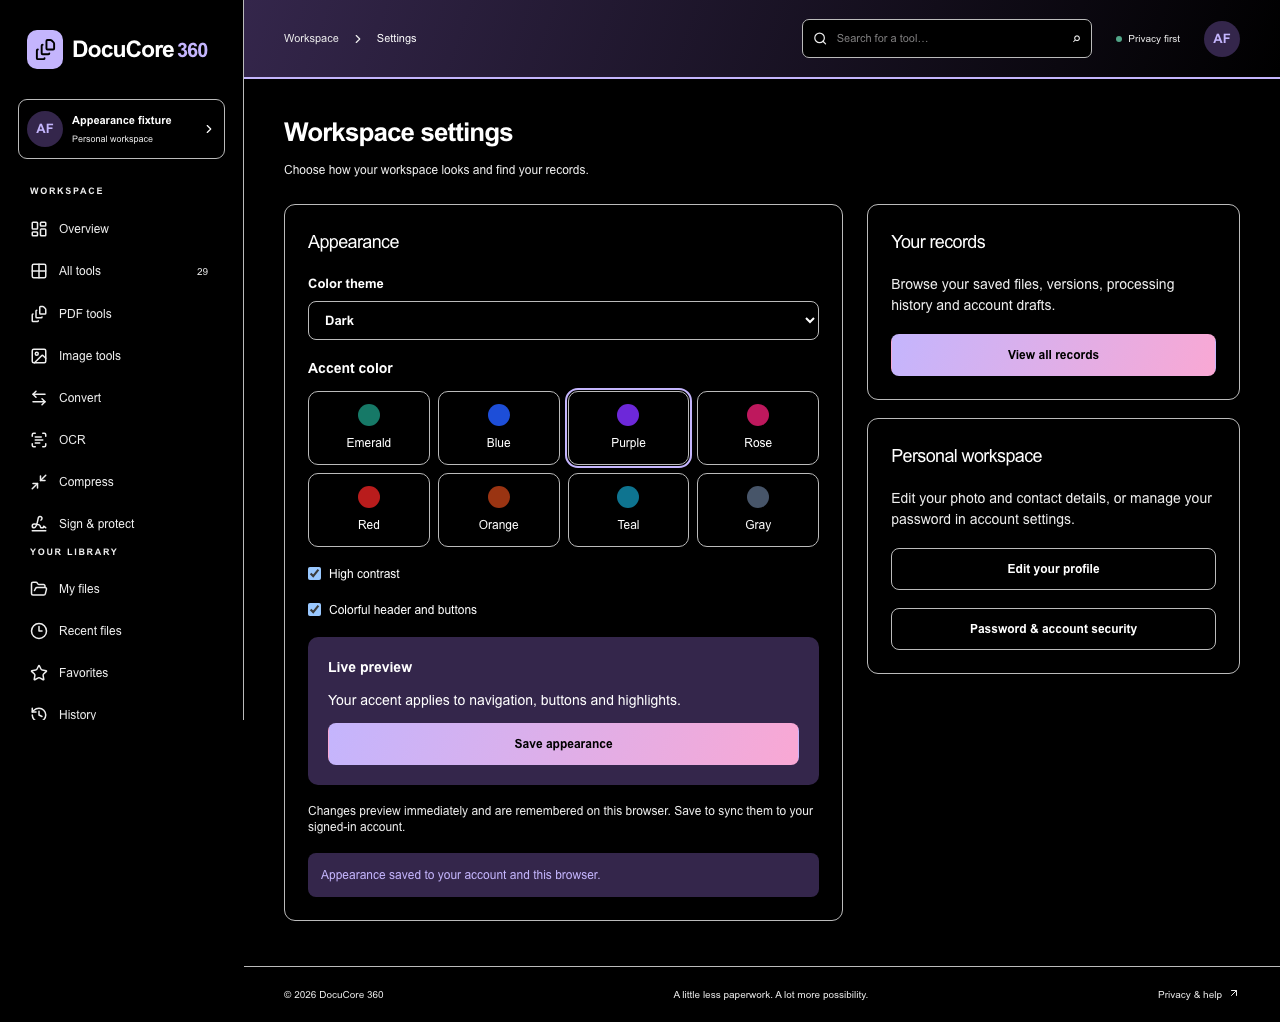
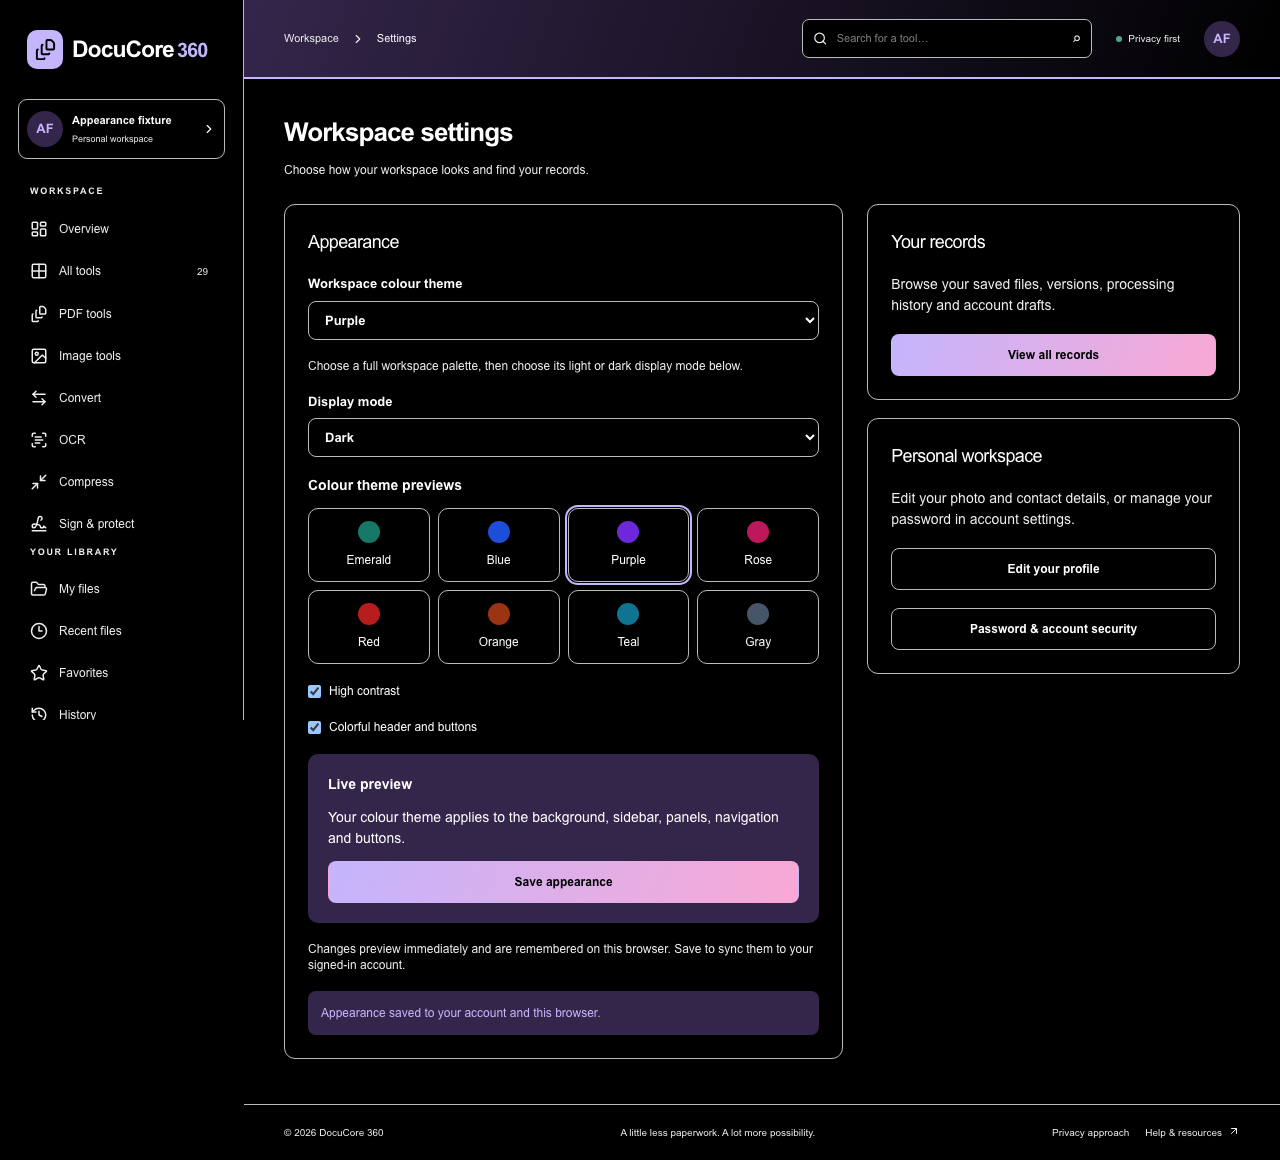
Separate privacy and help pages and expose full workspace themes

diff --git a/src/app/help/page.tsx b/src/app/help/page.tsx
@@ -1,12 +1,12 @@
 import Link from "next/link";
-export const metadata = { title: "Help & privacy" };
+export const metadata = { title: "Help & resources" };
 export default function Page() {
   return (
     <>
       <div className="page-intro">
         <div>
-          <h1>A little clarity goes a long way.</h1>
-          <p>How DocuCore works, and how we handle your documents.</p>
+          <h1>Help & resources</h1>
+          <p>Guides, supported formats and answers for your document workspace.</p>
         </div>
       </div>
       <div className="panel prose max-w-3xl">
@@ -16,20 +16,6 @@ export default function Page() {
           duplicate or delete pages, insert blank pages, convert images to PDF, and export PDF pages
           as JPG, PNG or WebP. OCR, image editing, basic Office conversion, PDF forms, redaction and
           AES-256 protection also run on your device.
-        </p>
-        <h2>Your files. Your choice.</h2>
-        <p>
-          Guest tool inputs and results stay in browser memory unless you explicitly save a local
-          editor draft. Local drafts persist in this browser profile until deleted. Signing in does
-          not automatically upload a document. Only choosing “Save to My Files” sends the selected
-          document to this application’s server, where it stays until you delete it or delete your
-          account.
-        </p>
-        <p>
-          Saved files live outside the public web directory and require your session to download.
-          Temporary server assets, if created by future tools, carry an expiration time and are
-          removed by the scheduled cleanup command. Deployment owners must configure that schedule.
-          We do not claim that every future conversion will happen locally.
         </p>
         <h2>Supported formats and limits</h2>
         <p>
@@ -65,9 +51,9 @@ export default function Page() {
           <details>
             <summary>Can I edit existing text or run OCR?</summary>
             <p>
-              The PDF editor supports visual text replacement overlays. English OCR creates editable
-              text and searchable PDFs. The separate Redact PDF tool rebuilds page images and
-              discards underlying text. Exact native PDF text editing is not supported.
+              The PDF editor supports visual text replacement overlays. Multilingual OCR creates
+              editable text and searchable PDFs. The separate Redact PDF tool rebuilds page images
+              and discards underlying text. Exact native PDF text editing is not supported.
             </p>
           </details>
           <details>
@@ -87,6 +73,27 @@ export default function Page() {
             </p>
           </details>
         </div>
+        <h2>Personalize your workspace</h2>
+        <p>
+          Open{" "}
+          <Link className="underline" href="/settings">
+            Workspace settings
+          </Link>{" "}
+          to choose from eight workspace colour themes, then pick light, dark or system display
+          mode. High contrast and colourful headers are optional. Save appearance to sync your
+          choice to your account.
+        </p>
+        <p>
+          For password changes, open{" "}
+          <Link className="underline" href="/profile/settings">
+            Account security
+          </Link>
+          . For storage and data handling, read{" "}
+          <Link className="underline" href="/privacy">
+            Our privacy approach
+          </Link>
+          .
+        </p>
         <h2>Need a starting point?</h2>
         <p>
           <Link className="text-[var(--primary)] underline" href="/tools">

diff --git a/src/app/privacy/page.tsx b/src/app/privacy/page.tsx
@@ -1,0 +1,68 @@
+import Link from "next/link";
+export const metadata = { title: "Our privacy approach" };
+export default function Page() {
+  return (
+    <>
+      <div className="page-intro">
+        <div>
+          <h1>Our privacy approach</h1>
+          <p>
+            Your files. Your control. Understand what stays on your device and what you choose to
+            save.
+          </p>
+        </div>
+      </div>
+      <div className="panel prose max-w-3xl">
+        <h2>Processing on your device</h2>
+        <p>
+          Current PDF, image, OCR and conversion tools process documents in your browser. Signing in
+          does not automatically upload their inputs or results. Downloads create a separate output;
+          your original file stays unchanged.
+        </p>
+        <h2>Local drafts and preferences</h2>
+        <p>
+          Choosing a local editor draft saves it in this browser profile until you delete it or
+          clear browser storage. Appearance preferences are also remembered locally. Local drafts
+          are not an offsite backup and are not automatically available on other devices.
+        </p>
+        <h2>What is stored on the server?</h2>
+        <p>
+          Save to My Files uploads the selected document. Saving an account draft uploads its
+          document and editable state. Profile photo upload stores a private, resized image. Account
+          details, saved appearance preferences, favourites and processing-history metadata are also
+          stored by this deployment. Processing history can include file names and result sizes; it
+          is separate from saving a document.
+        </p>
+        <h2>Private access and account email</h2>
+        <p>
+          Saved files, versions, drafts and profile photos require an authorized session. Files are
+          stored outside the public web directory. Password-reset and verification messages use the
+          email service configured by the deployment owner.
+        </p>
+        <h2>Removal and retention</h2>
+        <p>
+          You can delete saved files and drafts, remove your profile photo, and delete your account
+          from Account security. Account deletion removes its saved assets and sessions. Deployment
+          backups and operational logs are managed separately by the deployment owner; backup
+          retention depends on that deployment. Temporary server assets use the configured cleanup
+          schedule.
+        </p>
+        <h2>Your next step</h2>
+        <p>
+          <Link className="underline" href="/records">
+            View your records
+          </Link>{" "}
+          or{" "}
+          <Link className="underline" href="/profile/settings">
+            manage account security
+          </Link>
+          . For tool instructions and troubleshooting, visit{" "}
+          <Link className="underline" href="/help">
+            Help &amp; resources
+          </Link>
+          .
+        </p>
+      </div>
+    </>
+  );
+}

diff --git a/src/components/settings.tsx b/src/components/settings.tsx
@@ -4,7 +4,7 @@ import Link from "next/link";
 import { useQuery, useQueryClient } from "@tanstack/react-query";
 import { api, type SessionUser } from "@/lib/api";
 import { usePreferences } from "@/stores/preferences";
-import { accents, accentLabels, type Appearance } from "@/config/appearance";
+import { accents, accentLabels, type Accent, type Appearance } from "@/config/appearance";
 import { Button } from "@/components/ui/button";
 export function Settings() {
   const preferences = usePreferences();
@@ -52,8 +52,25 @@ export function Settings() {
         <section className="panel form-stack">
           <h2 className="text-lg">Appearance</h2>
           <label className="field">
-            Color theme
+            Workspace colour theme
             <select
+              value={preferences.accent}
+              onChange={(e) => preferences.setAppearance({ accent: e.target.value as Accent })}
+            >
+              {accents.map((accent) => (
+                <option key={accent} value={accent}>
+                  {accentLabels[accent]}
+                </option>
+              ))}
+            </select>
+          </label>
+          <p className="muted text-xs">
+            Choose a full workspace palette, then choose its light or dark display mode below.
+          </p>
+          <label className="field">
+            Display mode
+            <select
+              aria-label="Display mode"
               value={preferences.theme}
               onChange={(e) =>
                 preferences.setAppearance({ theme: e.target.value as Appearance["theme"] })
@@ -65,7 +82,7 @@ export function Settings() {
             </select>
           </label>
           <fieldset className="appearance-colors">
-            <legend>Accent color</legend>
+            <legend>Colour theme previews</legend>
             <div className="color-options">
               {accents.map((accent) => (
                 <button
@@ -100,7 +117,9 @@ export function Settings() {
           </label>
           <div className="appearance-preview">
             <strong>Live preview</strong>
-            <p>Your accent applies to navigation, buttons and highlights.</p>
+            <p>
+              Your colour theme applies to the background, sidebar, panels, navigation and buttons.
+            </p>
             <Button type="button" disabled={busy} onClick={() => void save()}>
               Save appearance
             </Button>

diff --git a/tests/e2e/specs/workspace-ui.spec.ts b/tests/e2e/specs/workspace-ui.spec.ts
@@ -119,13 +119,13 @@ test("all eight accents preview, save to the account and expose only owned recor
   });
   try {
     await page.goto("/settings");
-    await page.getByRole("combobox", { name: "Color theme", exact: true }).selectOption("light");
+    await page.getByRole("combobox", { name: "Display mode", exact: true }).selectOption("light");
     for (const name of ["Emerald", "Blue", "Purple", "Rose", "Red", "Orange", "Teal", "Gray"]) {
       await page.getByRole("button", { name: `${name} accent`, exact: true }).click();
       await expect(page.locator("html")).toHaveAttribute("data-accent", name.toLowerCase());
     }
     await page.getByRole("button", { name: "Purple accent", exact: true }).click();
-    await page.getByRole("combobox", { name: "Color theme", exact: true }).selectOption("dark");
+    await page.getByRole("combobox", { name: "Display mode", exact: true }).selectOption("dark");
     await page.getByLabel("High contrast", { exact: true }).check();
     await page.getByLabel("Colorful header and buttons", { exact: true }).check();
     await page.getByRole("button", { name: "Save appearance", exact: true }).click();

diff --git a/src/components/shell.tsx b/src/components/shell.tsx
@@ -189,7 +189,7 @@ export function Shell({ children }: { children: React.ReactNode }) {
             <ShieldCheck size={22} />
             <strong>Your files. Your control.</strong>
             <p>Core PDF tools run right in your browser.</p>
-            <Link href="/help">
+            <Link href="/privacy">
               Our privacy approach <ArrowUpRight size={14} />
             </Link>
           </div>
@@ -265,9 +265,12 @@ export function Shell({ children }: { children: React.ReactNode }) {
         <footer className="footer">
           <span>© {new Date().getFullYear()} DocuCore 360</span>
           <span>A little less paperwork. A lot more possibility.</span>
-          <Link href="/help">
-            Privacy & help <ArrowUpRight size={12} />
-          </Link>
+          <div className="flex gap-4">
+            <Link href="/privacy">Privacy approach</Link>
+            <Link href="/help">
+              Help &amp; resources <ArrowUpRight size={12} />
+            </Link>
+          </div>
         </footer>
       </div>
     </div>

diff --git a/src/app/globals.css b/src/app/globals.css
@@ -1973,3 +1973,17 @@ small {
 :root[data-accent="gray"]:not(.dark):not(.high-contrast) {
   --bg: #f1f3f5;
 }
+
+/* Full workspace palettes, independent of display mode and contrast. */
+:root[data-accent]:not(.dark):not(.high-contrast) {
+  --bg: color-mix(in srgb, var(--primary) 7%, white);
+  --surface: color-mix(in srgb, var(--primary) 2%, white);
+  --sidebar: color-mix(in srgb, var(--primary) 11%, white);
+  --line: color-mix(in srgb, var(--primary) 20%, white);
+}
+:root.dark[data-accent]:not(.high-contrast) {
+  --bg: color-mix(in srgb, var(--primary) 10%, #080b10);
+  --surface: color-mix(in srgb, var(--primary) 16%, #080b10);
+  --sidebar: color-mix(in srgb, var(--primary) 20%, #080b10);
+  --line: color-mix(in srgb, var(--primary) 30%, #080b10);
+}

diff --git a/README.md b/README.md
@@ -48,13 +48,15 @@ Open the account card at the top of the sidebar to view your name and photo, edi
 
 Your private profile includes your name, email, contact number, job title, location and bio. Use the pencil and delete icons directly on your photo to replace or remove a JPG, PNG or WebP avatar; the app creates a square avatar and updates the sidebar and header. Email changes require your current password, revoke existing sessions and clear verification until the new address is verified.
 
-Workspace **Settings** (`/settings`) offers light, dark and system modes plus eight colour palettes: Emerald, Blue, Purple, Rose, Red, Orange, Teal and Gray. High contrast and colourful header/buttons are independent options. Changes preview immediately and persist in this browser; **Save appearance** also saves them to your signed-in account for another browser or device.
+Workspace **Settings** (`/settings`) has a **Workspace colour theme** dropdown and a separate **Display mode** selector for light, dark and system modes. Eight full workspace palettes colour the background, sidebar, panels and controls: Emerald, Blue, Purple, Rose, Red, Orange, Teal and Gray. High contrast and colourful header/buttons are independent options. Changes preview immediately and persist in this browser; **Save appearance** also saves them to your signed-in account for another browser or device.
 
 Personal **Account settings** (`/profile/settings`) is available from the sidebar profile menu and profile page. Change your password there; a successful change ends existing sessions and asks you to sign in again. Every password input—including login, signup, reset, account confirmation and protected PDF tools—has an accessible show/hide eye button.
 
 Use **Settings → View all records** (`/records`) to browse your own saved files and versions, processing history and account drafts. The existing library pagination and history limits still apply: files load 50 per page, history shows the latest 200 records, and an account can retain up to 20 editable drafts.
 
 **All tools** in the sidebar displays all 29 tools. PDF tools, Image tools, Convert, OCR and Sign & protect display their matching tools; the selected category stays in sync with the URL and browser back/forward navigation.
+
+**Our privacy approach** (`/privacy`) explains browser processing, explicit uploads, account data and retention. **Help & resources** (`/help`) is a separate page for tool guidance, limits and troubleshooting.
 
 Core document tools can be used without an account; saved files, account drafts and profiles require sign-in.
 

diff --git a/docs/IMPLEMENTATION_STATUS.md b/docs/IMPLEMENTATION_STATUS.md
@@ -50,3 +50,9 @@ The current app was rebuilt and restarted. ESLint, TypeScript, all 55 unit/datab
 Added a shared accessible show/hide control to every password field, photo edit/delete icons directly on the avatar, separate personal account security at `/profile/settings`, and workspace appearance plus View all records at `/settings`. Eight colour palettes work with light/dark/system modes; high contrast and colourful header/buttons are independent switches. Appearance previews persist locally and explicit saving persists account preferences for a fresh browser. Sidebar categories now follow URL state and back/forward navigation; All tools exposes all 29 routes. `/records` reuses owned files/versions and history alongside account drafts, retaining existing pagination and limits.
 
 Migration `20260922111647_appearance_preferences` adds three preference columns and was applied locally (five migrations total). ESLint, TypeScript, the production build and all 55 unit/database tests passed. The complete Chromium suite passed all 36 scenarios with local mail enabled. New checks cover password visibility without accidental submission, password-change session revocation, category navigation, eight accent selections, fresh-browser preference restoration, records navigation, mobile overflow and serious/critical accessibility violations on the dark purple high-contrast settings screen. One initial test used an incorrect exact label selector for the theme dropdown; switching to its accessible combobox role resolved the test, and the combined suite passed. Updated synthetic profile screenshots and `appearance-dark-purple.png` are included.
+
+## Separate privacy/help and full workspace palettes
+
+Privacy guidance now lives at `/privacy`; Help & resources remains at `/help` with tool instructions and troubleshooting. The sidebar privacy card and footer route to the dedicated privacy page. Settings now separates Workspace colour theme (eight palettes) from Display mode (light/dark/system), and palettes tint sidebar, background and panels as well as controls. High contrast retains its dedicated surfaces. README and the settings screenshot were updated.
+
+Lint, TypeScript, production build and the three workspace Chromium scenarios passed. A separate browser check verified both navigation destinations and 16 distinct sidebar colour combinations across eight palettes in light/dark modes.
